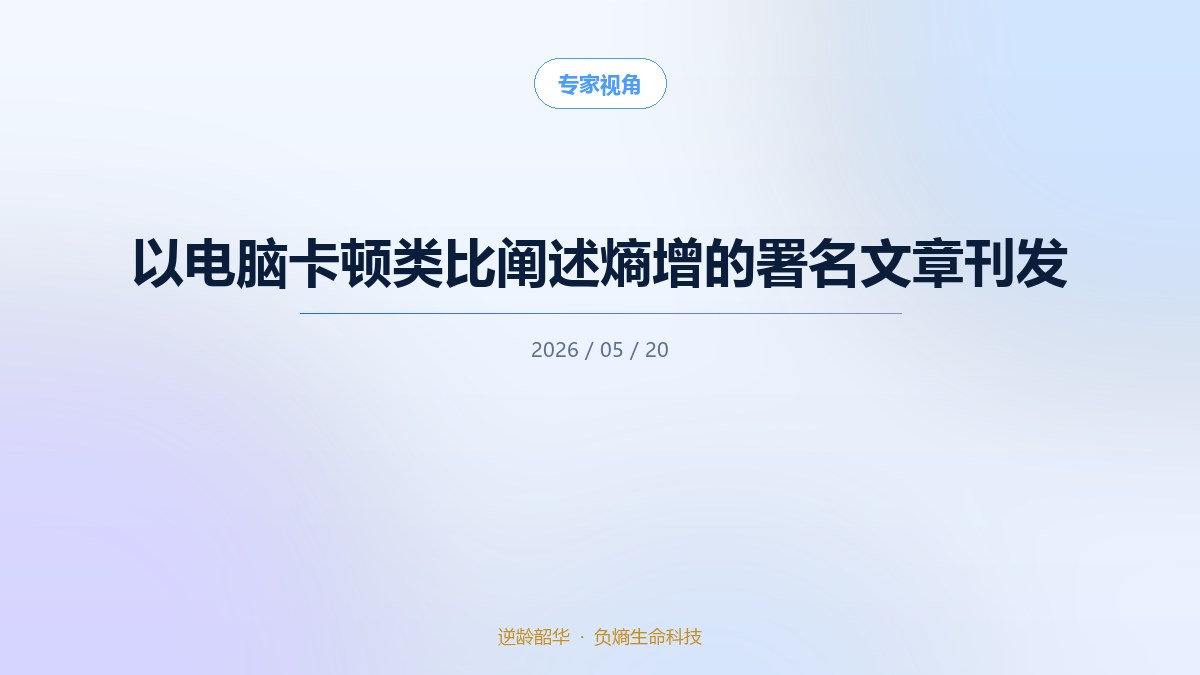
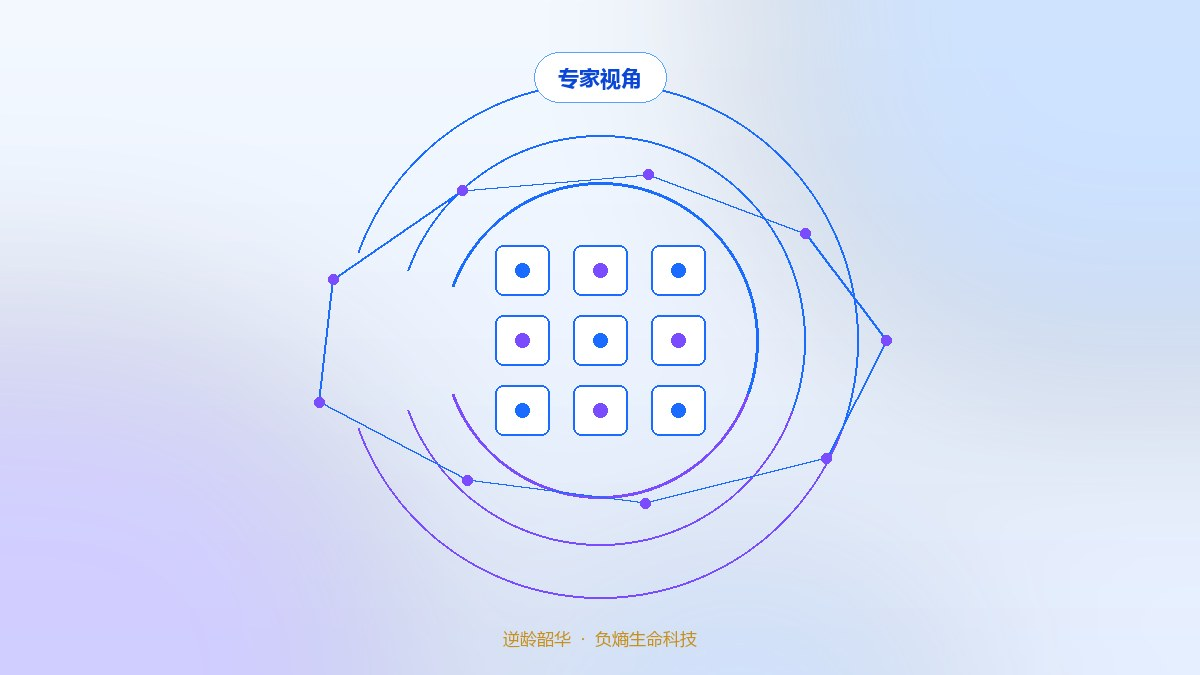
专家视角封面改为纯视觉主题图，日期移到卡片下方与标题一起

diff --git a/science.html b/science.html
@@ -45,7 +45,7 @@
 <section class="page-hero"><div class="container"><div class="crumbs"><a href="index.html">首页</a><span>/</span>专家视角</div><h1>专家视角</h1><p>署名文章、专访与研究记录，围绕负熵概念与相关研究展开。</p></div></section>
 
 <section class="section tight"><div class="container">
-<div class="article-list cols2"><a class="article-card minimal" data-cat="expert" href="article/expert-schrodinger-negentropy-2026.html"><div class="a-thumb"><img src="assets/img/cover-expert-schrodinger-negentropy-2026.jpg" alt="专家视角 配图：生命以负熵为食：薛定谔论断与熵增定律的日常理解" width="1200" height="675"></div><h3>生命以负熵为食：薛定谔论断与熵增定律的日常理解</h3></a><a class="article-card minimal" data-cat="expert" href="article/expert-organoid-2026.html"><div class="a-thumb"><img src="assets/img/cover-expert-organoid-2026.jpg" alt="专家视角 配图：类器官培养形态观察的实验记录刊发" width="1200" height="675"></div><h3>类器官培养形态观察的实验记录刊发</h3></a><a class="article-card minimal" data-cat="expert" href="article/expert-interview-2026.html"><div class="a-thumb"><img src="assets/img/cover-expert-interview-2026.jpg" alt="专家视角 配图：冯桂荣就负熵概念接受专访" width="1200" height="675"></div><h3>冯桂荣就负熵概念接受专访</h3></a><a class="article-card minimal" data-cat="expert" href="article/expert-food-view-2026.html"><div class="a-thumb"><img src="assets/img/cover-expert-food-view-2026.jpg" alt="专家视角 配图：围绕大食物观与粮食品种的解读文章刊发" width="1200" height="675"></div><h3>围绕大食物观与粮食品种的解读文章刊发</h3></a><a class="article-card minimal" data-cat="expert" href="article/expert-entropy-2026.html"><div class="a-thumb"><img src="assets/img/cover-expert-entropy-2026.jpg" alt="专家视角 配图：熵增与负熵概念辨析文章刊发" width="1200" height="675"></div><h3>熵增与负熵概念辨析文章刊发</h3></a><a class="article-card minimal" data-cat="expert" href="article/expert-computer-analogy-2026.html"><div class="a-thumb"><img src="assets/img/cover-expert-computer-analogy-2026.jpg" alt="专家视角 配图：以电脑卡顿类比阐述熵增的署名文章刊发" width="1200" height="675"></div><h3>以电脑卡顿类比阐述熵增的署名文章刊发</h3></a></div>
+<div class="article-list cols2"><a class="article-card minimal" data-cat="expert" href="article/expert-schrodinger-negentropy-2026.html"><div class="a-thumb"><img src="assets/img/cover-expert-schrodinger-negentropy-2026.jpg" alt="文章配图" width="1200" height="675"></div><div class="card-copy"><div class="card-meta"><time>2026.11.20</time><span class="pill">专家视角</span></div><h3>生命以负熵为食：薛定谔论断与熵增定律的日常理解</h3></div></a><a class="article-card minimal" data-cat="expert" href="article/expert-organoid-2026.html"><div class="a-thumb"><img src="assets/img/cover-expert-organoid-2026.jpg" alt="文章配图" width="1200" height="675"></div><div class="card-copy"><div class="card-meta"><time>2026.09.27</time><span class="pill">专家视角</span></div><h3>类器官培养形态观察的实验记录刊发</h3></div></a><a class="article-card minimal" data-cat="expert" href="article/expert-interview-2026.html"><div class="a-thumb"><img src="assets/img/cover-expert-interview-2026.jpg" alt="文章配图" width="1200" height="675"></div><div class="card-copy"><div class="card-meta"><time>2026.09.26</time><span class="pill">专家视角</span></div><h3>冯桂荣就负熵概念接受专访</h3></div></a><a class="article-card minimal" data-cat="expert" href="article/expert-food-view-2026.html"><div class="a-thumb"><img src="assets/img/cover-expert-food-view-2026.jpg" alt="文章配图" width="1200" height="675"></div><div class="card-copy"><div class="card-meta"><time>2026.09.19</time><span class="pill">专家视角</span></div><h3>围绕大食物观与粮食品种的解读文章刊发</h3></div></a><a class="article-card minimal" data-cat="expert" href="article/expert-entropy-2026.html"><div class="a-thumb"><img src="assets/img/cover-expert-entropy-2026.jpg" alt="文章配图" width="1200" height="675"></div><div class="card-copy"><div class="card-meta"><time>2026.08.24</time><span class="pill">专家视角</span></div><h3>熵增与负熵概念辨析文章刊发</h3></div></a><a class="article-card minimal" data-cat="expert" href="article/expert-computer-analogy-2026.html"><div class="a-thumb"><img src="assets/img/cover-expert-computer-analogy-2026.jpg" alt="文章配图" width="1200" height="675"></div><div class="card-copy"><div class="card-meta"><time>2026.05.20</time><span class="pill">专家视角</span></div><h3>以电脑卡顿类比阐述熵增的署名文章刊发</h3></div></a></div>
 <div class="page-nav" id="page-nav"></div>
 <div class="page-info" id="page-info">共 6 篇公开资讯</div>
 </div></section>

diff --git a/assets/css/style.css b/assets/css/style.css
@@ -223,6 +223,11 @@ body::after{
 .article-card.minimal,.article-list.cols2 .article-card.minimal{padding:0 0 18px;overflow:hidden}
 .article-card.minimal .a-thumb{width:100%;aspect-ratio:16/9;border-radius:18px 18px 0 0;margin:0;overflow:hidden}
 .article-card.minimal h3{margin:16px 16px 0;font-size:17px;line-height:1.6;text-align:center}
+/* 专家视角卡片：日期与标题一起显示在封面下方 */
+.article-card.minimal .card-copy{padding:4px 0 4px}
+.article-card.minimal .card-meta{display:flex;align-items:center;justify-content:center;gap:10px;margin:14px 16px 4px;font-size:12.5px;color:var(--muted)}
+.article-card.minimal .card-meta time{font-weight:800;color:var(--blue-deep);letter-spacing:.04em}
+.article-card.minimal .card-meta .pill{font-size:11px;padding:2px 10px}
 .a-thumb{width:100%;aspect-ratio:16/9;border-radius:14px;overflow:hidden;margin:0 auto 16px;background:linear-gradient(120deg,#0b3280,#123a91)}
 .a-thumb img{width:100%;height:100%;object-fit:cover;display:block;margin:0}
 .article-card{display:block;padding:28px 30px;background:var(--glass);backdrop-filter:blur(14px);-webkit-backdrop-filter:blur(14px);border:1px solid rgba(255,255,255,.9);box-shadow:var(--shadow);border-radius:20px;transition:transform .3s var(--ease),box-shadow .3s;text-align:center}
